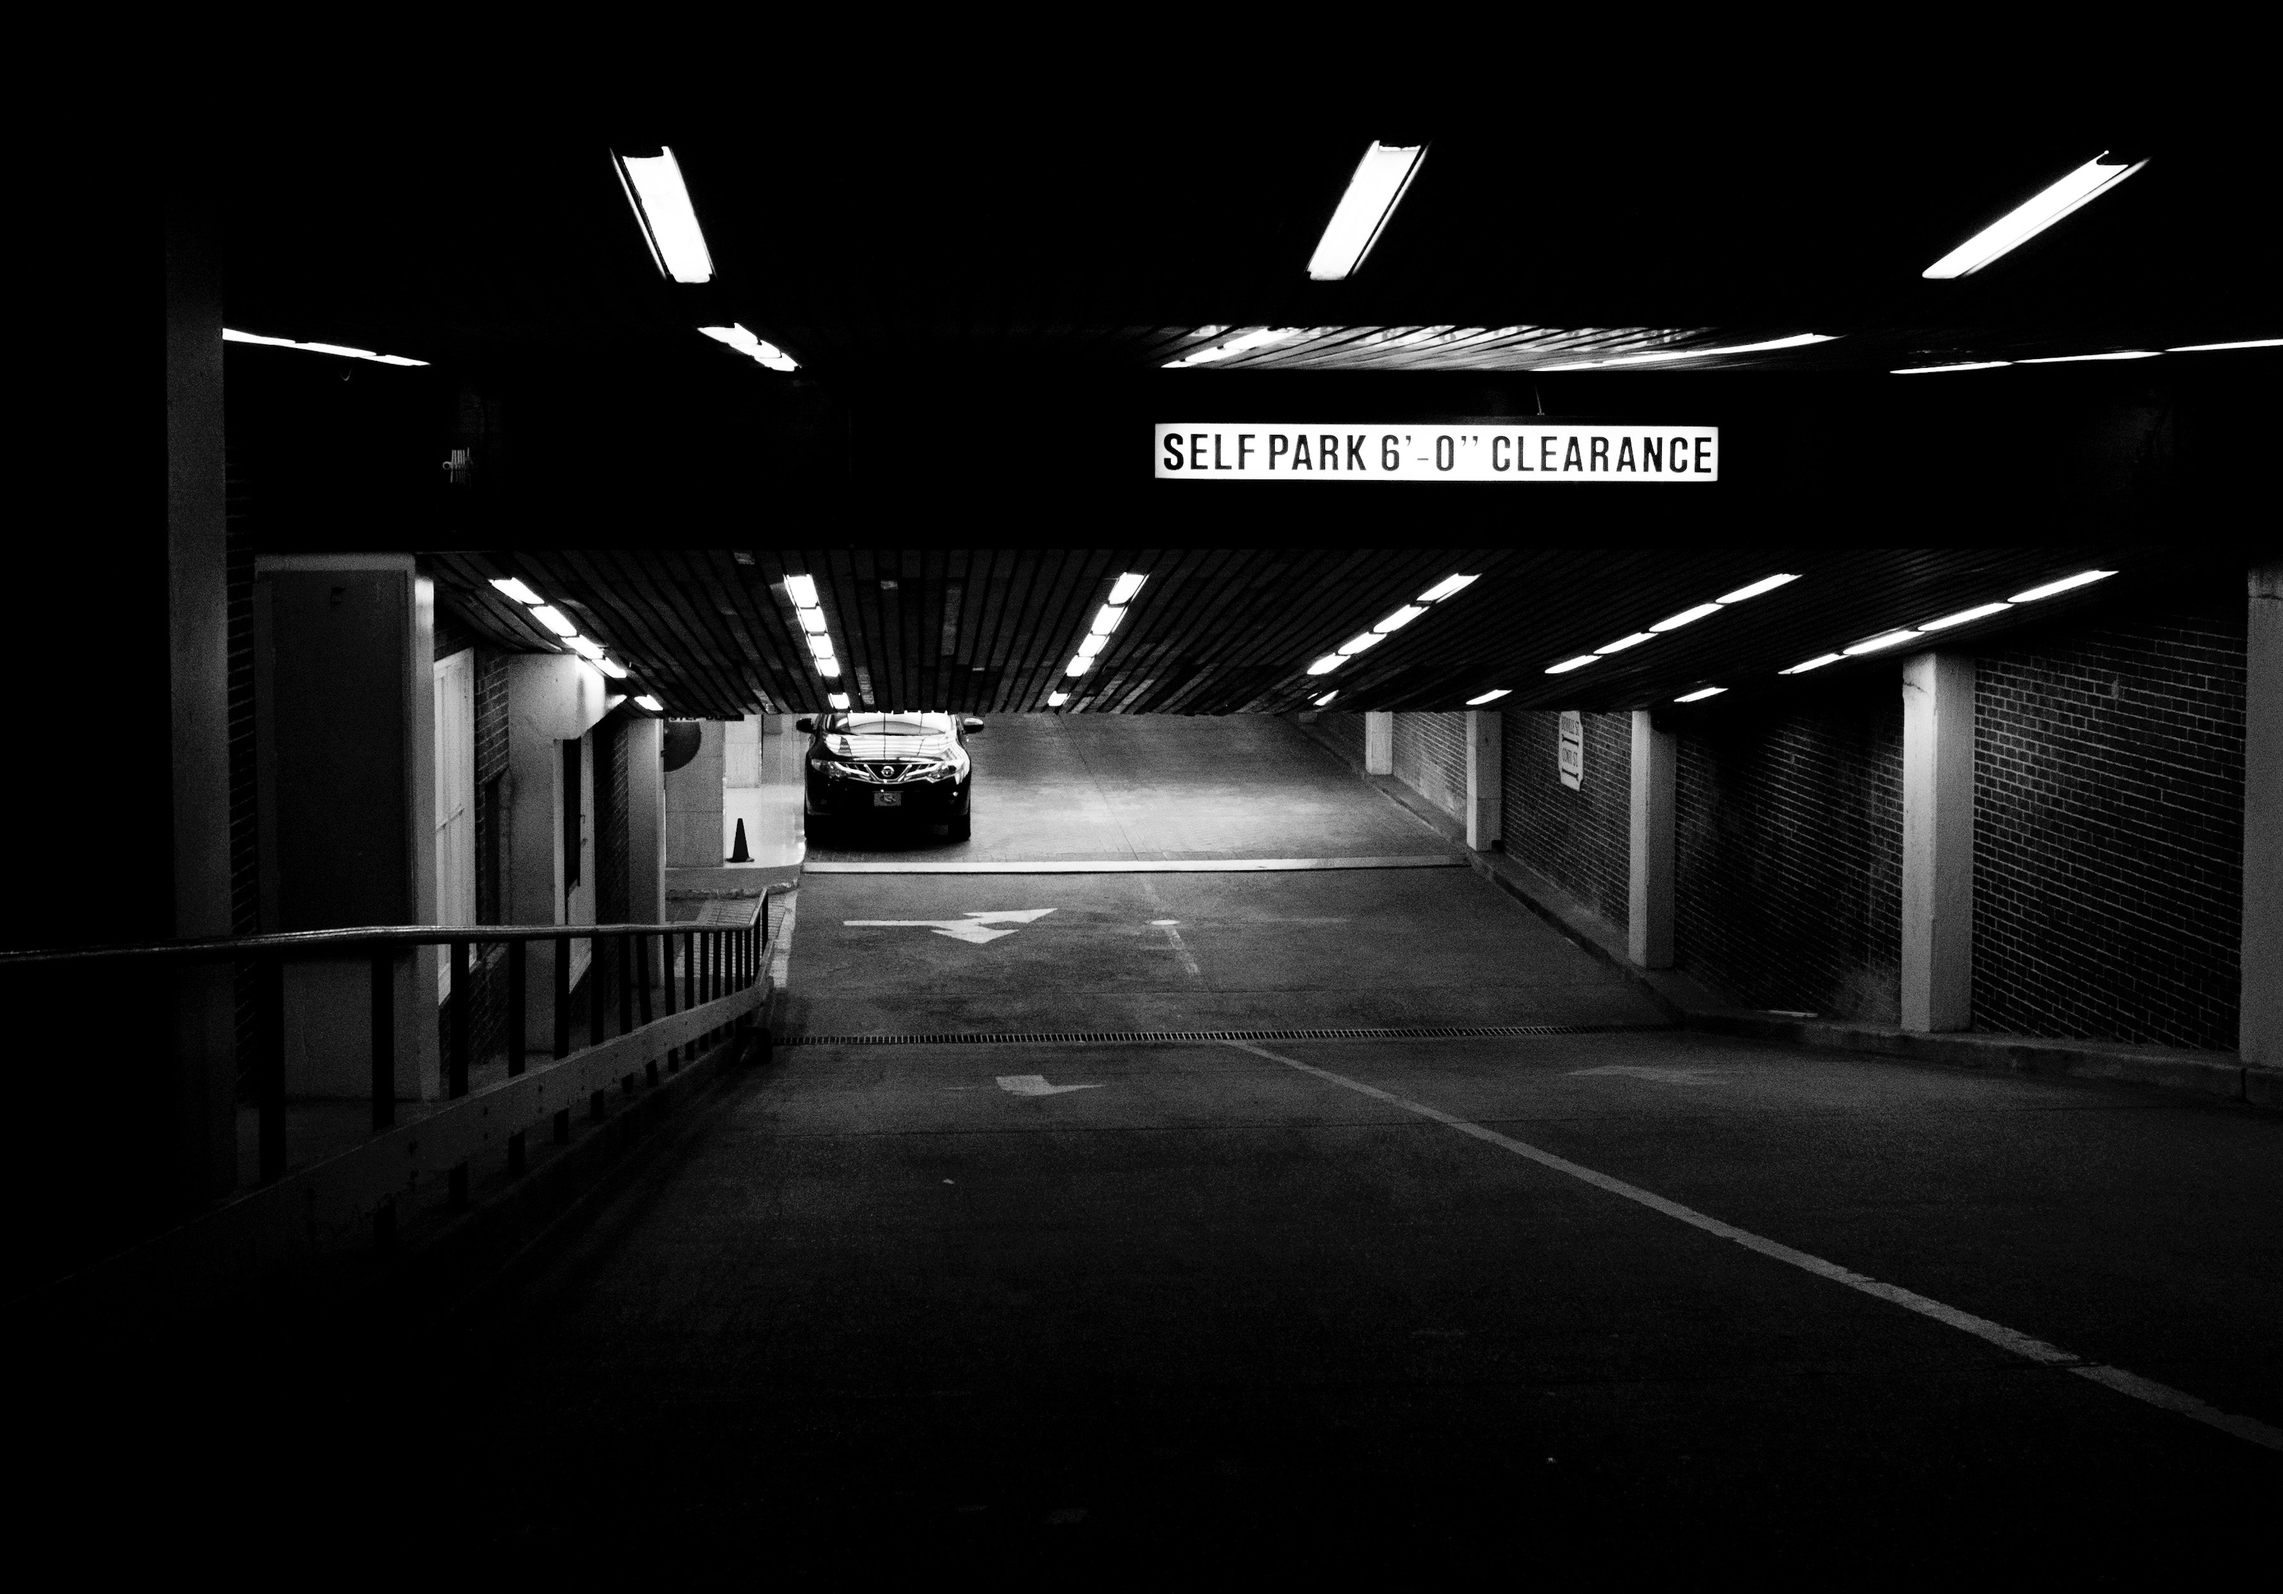
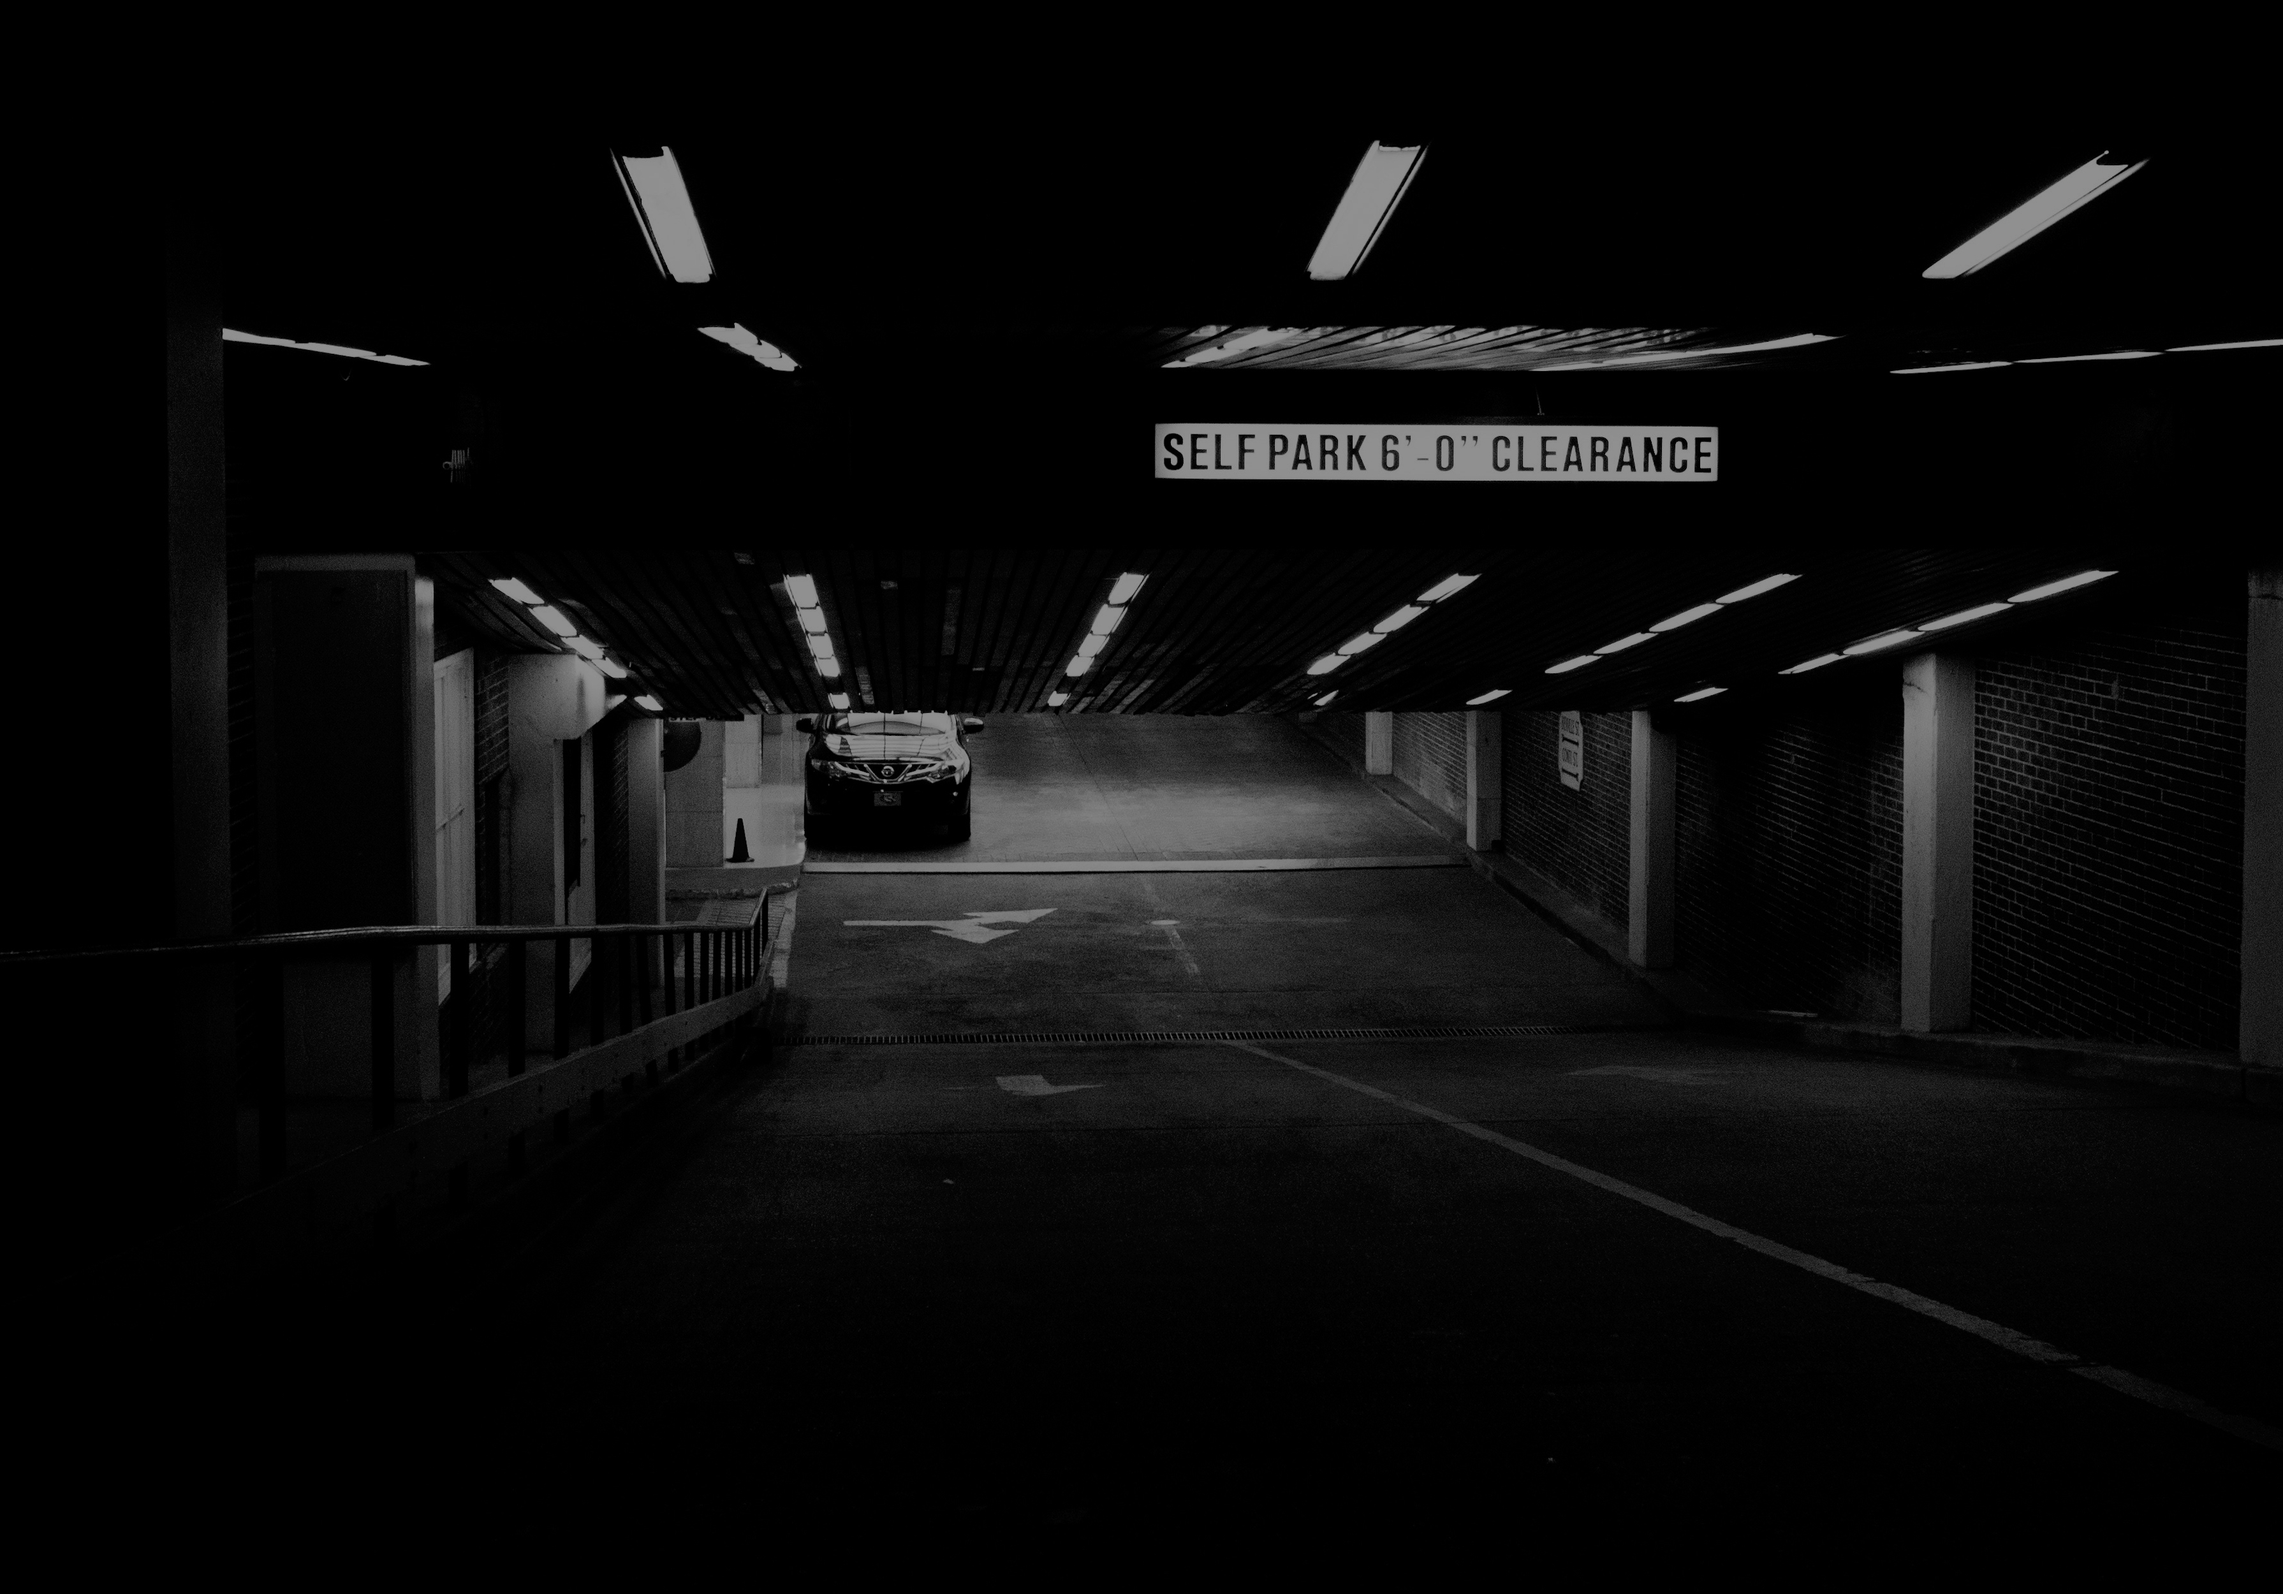
Finished section to allow user to add in more details to their journey.

diff --git a/prototype/main.html b/prototype/main.html
@@ -98,11 +98,9 @@
 	}
 	</script>
 
-		<!-- Login Pop-up Section End-->
 
-
-	<!-- Hero section 1 -->
-	<section class="hero-section set-bg" data-setbg="img/banner_image.jpg"over;>
+	<!-- Hero section Basic Journey -->
+	<section class="hero-section set-bg" data-setbg="img/banner_image_5.jpg"over;>
 		<div class="container h-100" id="1">
 			<div class="hero-content text-white">
 				<div class="row">
@@ -130,106 +128,102 @@
 						</script>
 
 						<script src="https://maps.googleapis.com/maps/api/js?key=AIzaSyAHYJPNdzp2PrXo4AFKSRah6KizW6SJx18&callback=myMap"></script>
-
-
-
-
-
-
-
 				</div>
-
 			</div>
 		</div>
 	</section>
-	<!-- Hero section end -->
 
-<!-- Hero section -->
-<section class="hero-section set-bg" data-setbg="img/banner_image.jpg"over;>
-	<div class="container h-100" id="2">
-		<div class="hero-content text-white">
-			<div class="row">
-					<h2>Details.</h2>
-					<p>Feel free to enter more details about your vehicle below. This will allow us to calculate your journey more accuratley.</p>
-					<input id="user-input" type="text" placeholder="" name="start-location" required>
-					<input id="user-input" type="text" placeholder="" name="end-location" required>
-					<input id="user-input" type="text" placeholder="" name="registration-plate">
-					<a href="" class="site-btn">Calculate</a>
 
-		</div>
+<!-- Hero section More Detailed Journey-->
+
+	<section class="hero-section set-bg" data-setbg="img/banner_image.jpg"over;>
+		<div class="container h-100" id="2">
+			<div class="hero-content text-white">
+				<div class="row">
+						<h2>Details.</h2>
+						<p>Feel free to enter more details about your vehicle or journey below. This will allow us to calculate your journey cost more accuratley.</p>
+						<h5>Manufacturer:</h5>
+							<select id="manufacturerSelect">
+								<option value="0">Select manufacturer:</option>
+								<option value="1">Audi</option>
+								<option value="2">BMW</option>
+								<option value="3">Citroen</option>
+								<option value="4">Ford</option>
+								<option value="5">Honda</option>
+								<option value="6">Jaguar</option>
+								<option value="7">Land Rover</option>
+								<option value="8">Mercedes</option>
+								<option value="9">Mini</option>
+								<option value="10">Nissan</option>
+								<option value="11">Toyota</option>
+								<option value="12">Volvo</option>
+							</select>
+							<h5>Model:</h5>
+							<input id="user-input" type="text" placeholder="" name="end-location" required>
+							<h5>User Entry:</h5>
+							<input id="user-input" type="text" placeholder="" name="registration-plate">
+							<a href="#3" class="site-btn">Calculate</a>
+						</div>
+
 		<div class="row">
-			<input id="user-input" type="text" placeholder="" name="car-manufacturer" required>
-			<input id="user-input" type="text" placeholder="" name="car-model" required>
-			<div class="slidecontainer">
+
+			<h5>User Entry:</h5>
+			<input id="user-input" type="text" placeholder="" name="registration-plate">
+			<div class="number-line">
+				<h5>Number of Passengers:</h5>
+				<div>1</div><div>2</div><div>3</div><div>4</div><div>5</div><div>6</div><div>7</div><div>8</div><div>9</div><div>10</div>
+			</div>
+			<div class="slidecontainer" id="passender-amount">
   			<input type="range" min="1" max="100" value="50" class="slider" id="myRange">
 			</div>
+			<h5>User Entry:</h5>
 			<input id="user-input" type="text" placeholder="" name="registration-plate">
-			<input id="user-input" type="text" placeholder="" name="start-location" required>
-			<input id="user-input" type="text" placeholder="" name="end-location" required>
+			<h5>User Entry:</h5>
+			<input id="user-input" type="text" placeholder="" name="registration-plate">
+			<h5>User Entry:</h5>
 			<input id="user-input" type="text" placeholder="" name="registration-plate">
 
 		</div>
-
-
 	</section>
-	<!-- Hero section end -->
-<!-- Hero section end -->
 
-<!-- Hero section -->
-	<section class="hero-section set-bg" data-setbg="img/333.jpg">
-		<div class="container h-100" id="3">
+	<!-- Hero section end -->
+
+
+
+	<!-- Hero section Calculated Journey -->
+	<section class="hero-section set-bg" data-setbg="img/banner_image_5.jpg"over;>
+		<div class="container h-100" id="1">
 			<div class="hero-content text-white">
 				<div class="row">
-					<div class="col-lg-6 pr-0">
-						<h2>How many people will be travelling with you?</h2>
-						<p>We will help you decide the price per person. </p>
-<a href="#4" class="site-btn">Next</a>
+						<h2>Plan your journey</h2>
+						<p>Enter infromatione bellow to allow use to calculate your journey. </p>
+						<input id="user-input" type="text" placeholder="Starting Location" name="start-location" required>
+						<input id="user-input" type="text" placeholder="End Location" name="end-location" required>
+						<input id="user-input" type="text" placeholder="Registration Plate" name="registration-plate">
+						<a href="" class="site-btn">Calculate</a>
+						<a href="#2" class="site-btn">More Options</a>
 
-					</div>
+						</div>
+
+
+						<div id="googleMap"></div>
+
+						<script>
+						function myMap() {
+						var mapProp= {
+						  center:new google.maps.LatLng(57.119647,-2.139528),
+						  zoom:13,
+						};
+						var map = new google.maps.Map(document.getElementById("googleMap"),mapProp);
+						}
+						</script>
+
+						<script src="https://maps.googleapis.com/maps/api/js?key=AIzaSyAHYJPNdzp2PrXo4AFKSRah6KizW6SJx18&callback=myMap"></script>
 				</div>
-
 			</div>
-
 		</div>
 	</section>
-	<!-- Hero section end -->
-<!-- Hero section -->
-	<section class="hero-section set-bg" data-setbg="img/444.jpg">
-		<div class="container h-100" id="4">
-			<div class="hero-content text-white">
-				<div class="row">
-					<div class="col-lg-6 pr-0">
-						<h2>What is your postcode?</h2>
-						<p>This will help us find the local fuel prices. </p>
-<a href="#5" class="site-btn">Get Recommendation</a>
 
-					</div>
-				</div>
-
-			</div>
-
-		</div>
-	</section>
-	<!-- Hero section end -->
-
-<!-- Hero section -->
-	<section class="hero-section set-bg" data-setbg="img/123.jpg">
-		<div class="container h-100" id="5">
-			<div class="hero-content text-white">
-				<div class="row">
-					<div class="col-lg-6 pr-0">
-						<h2>Our recommendation</h2>
-						<p>Your planned route and price </p>
-						<a href="#5" class="site-btn">Save Recommendation</a>
-
-					</div>
-				</div>
-
-			</div>
-
-		</div>
-	</section>
-	<!-- Hero section end -->
 
 
 
@@ -267,6 +261,7 @@ Copyright &copy;<script>document.write(new Date().getFullYear());</script> All r
 	<script src="js/owl.carousel.min.js"></script>
 	<script src="js/circle-progress.min.js"></script>
 	<script src="js/main.js"></script>
+	<script src="js/dropdown.js"></script>
 
 	</body>
 </html>

diff --git a/prototype/css/style.css b/prototype/css/style.css
@@ -251,7 +251,7 @@ span.psw {
 /* Modal Content/Box */
 .modal-content {
   background-color: #c3c5c9;
-  margin: 10% auto 15% auto; /* 5% from the top, 15% from the bottom and centered */
+  margin: 10% auto 15n% auto; /* 5% from the top, 15% from the bottom and centered */
   border: 1px solid #888;
   width: 400px; /* Could be more or less, depending on screen size */
 }
@@ -913,6 +913,11 @@ span.psw {
 
 }
 
+.hero-section > h5 {
+	padding-bottom: 0px;
+
+}
+
 #user-input {
 	width: 400px;
 	display: block;
@@ -923,6 +928,70 @@ span.psw {
 	height: 500px;
 	float: right;
 }
+
+
+
+/* Detailed Journey Section */
+
+#manufacturerSelect {
+	font-size: 20px;
+	width: 400px;
+	height: 50px;
+}
+
+
+.number-line{
+		width: 400px;
+		font-size: 24px;
+
+}
+
+.number-line > h3{
+	text-align: center;
+}
+
+.number-line > div {
+	display: inline-block;
+	display: -moz-inline-box;
+	*display: inline; /*IE*/
+	Zoom: 1;
+	width: 10%;
+	text-align: center;
+}
+
+.slider {
+	-webkit-apperance: none;
+	width: 400px;
+	height: 20px;
+	background: #fff;
+	opacity: 0.8;
+	-webkit-transition: .2s;
+	transition: opacity .2s;
+}
+
+.slider::-webkit-slider-thumb {
+	-webkit-appearance: none;
+	appearance: none;
+	width: 25px;
+	height: 25px;
+	border-radius: 50%;
+	background: #f27348;
+	cursor: pointer;
+}
+
+
+.slider::-moz-range-thumb {
+  width: 25px;
+  height: 25px;
+  border-radius: 50%;
+  background: #f27348;
+  cursor: pointer;
+}
+
+
+/* Deailed Journey Section End */
+
+/* Journey Planer Section End */
 
 
 
